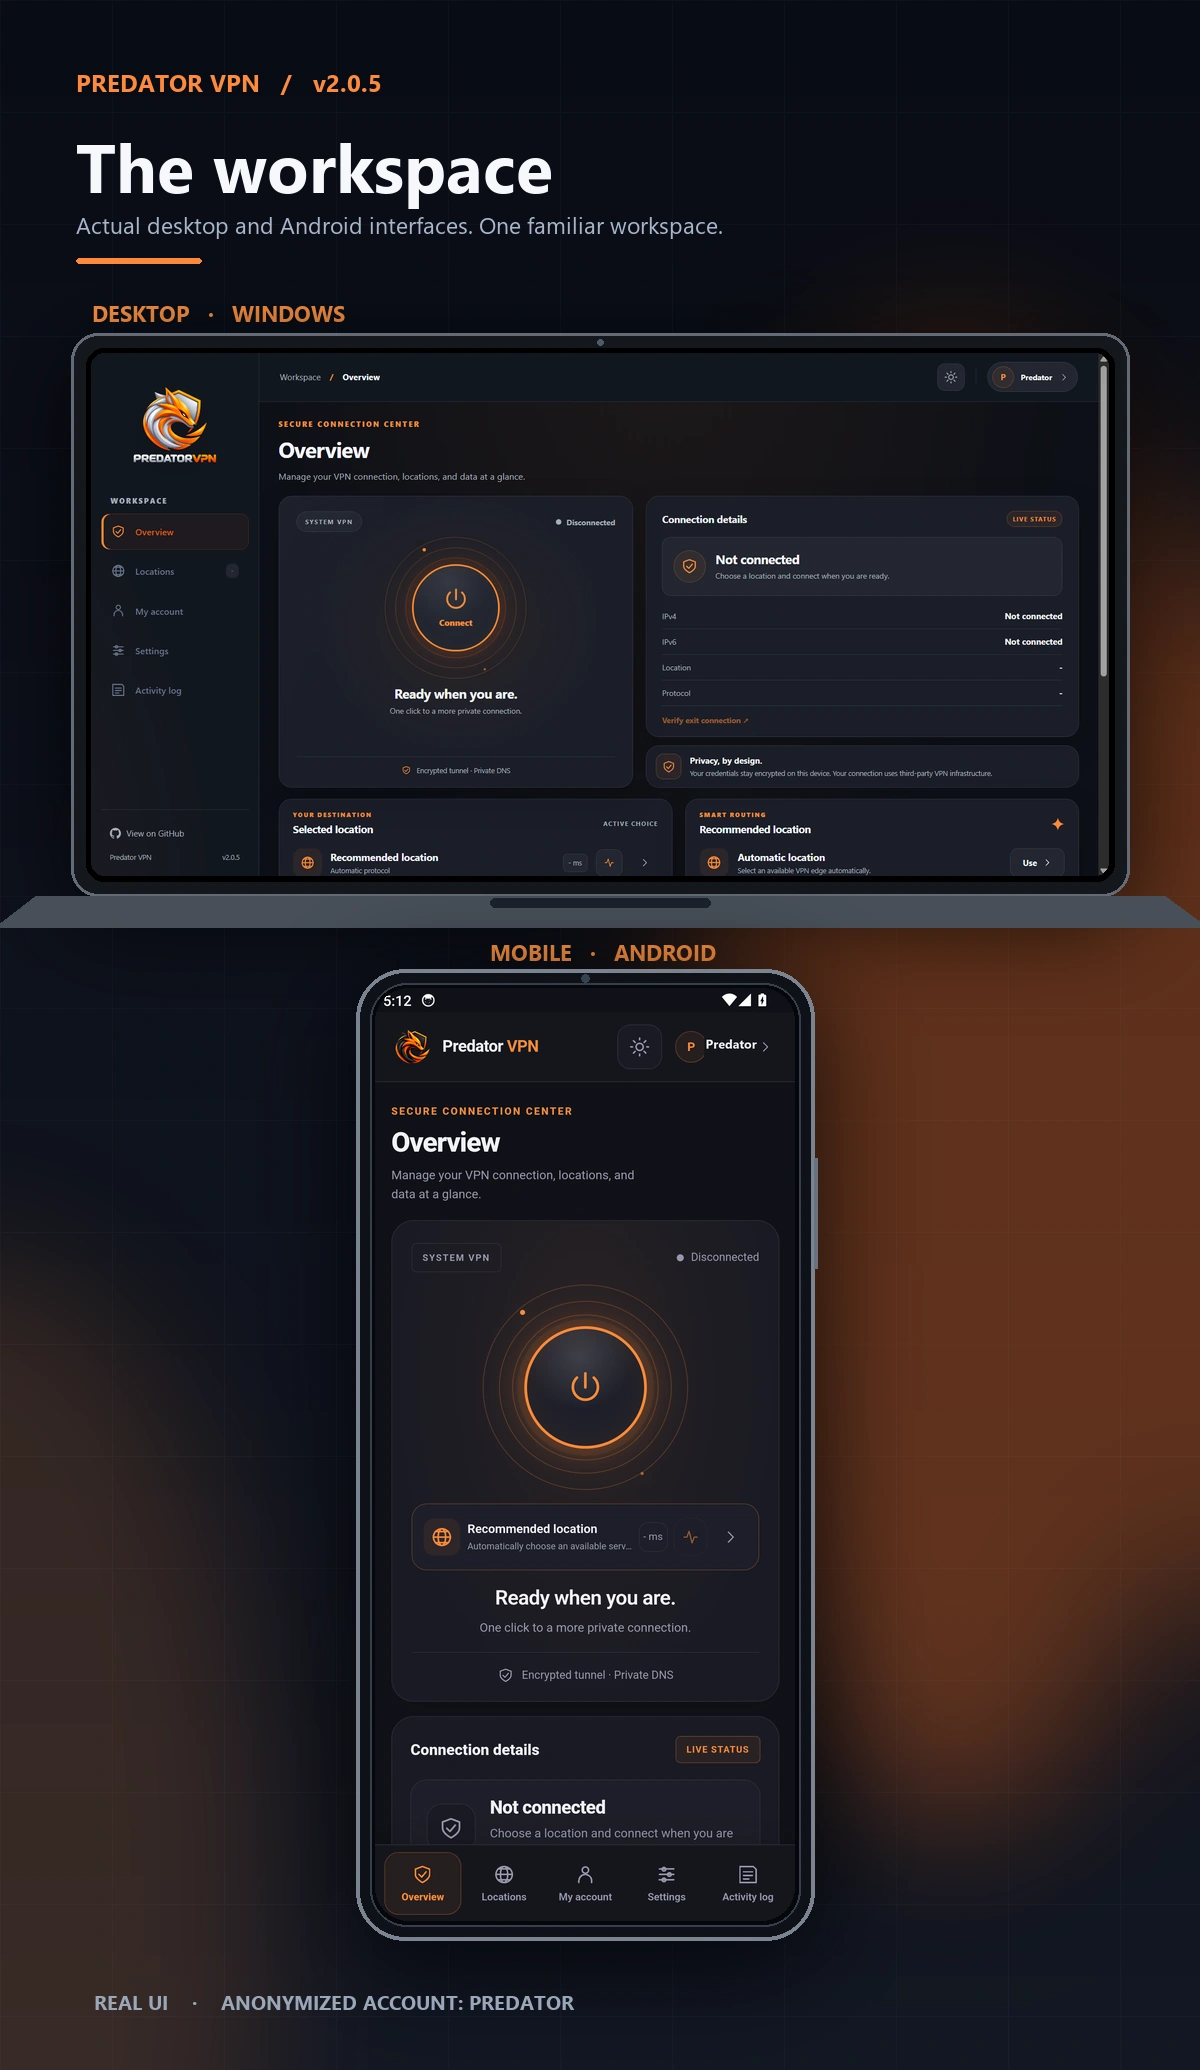
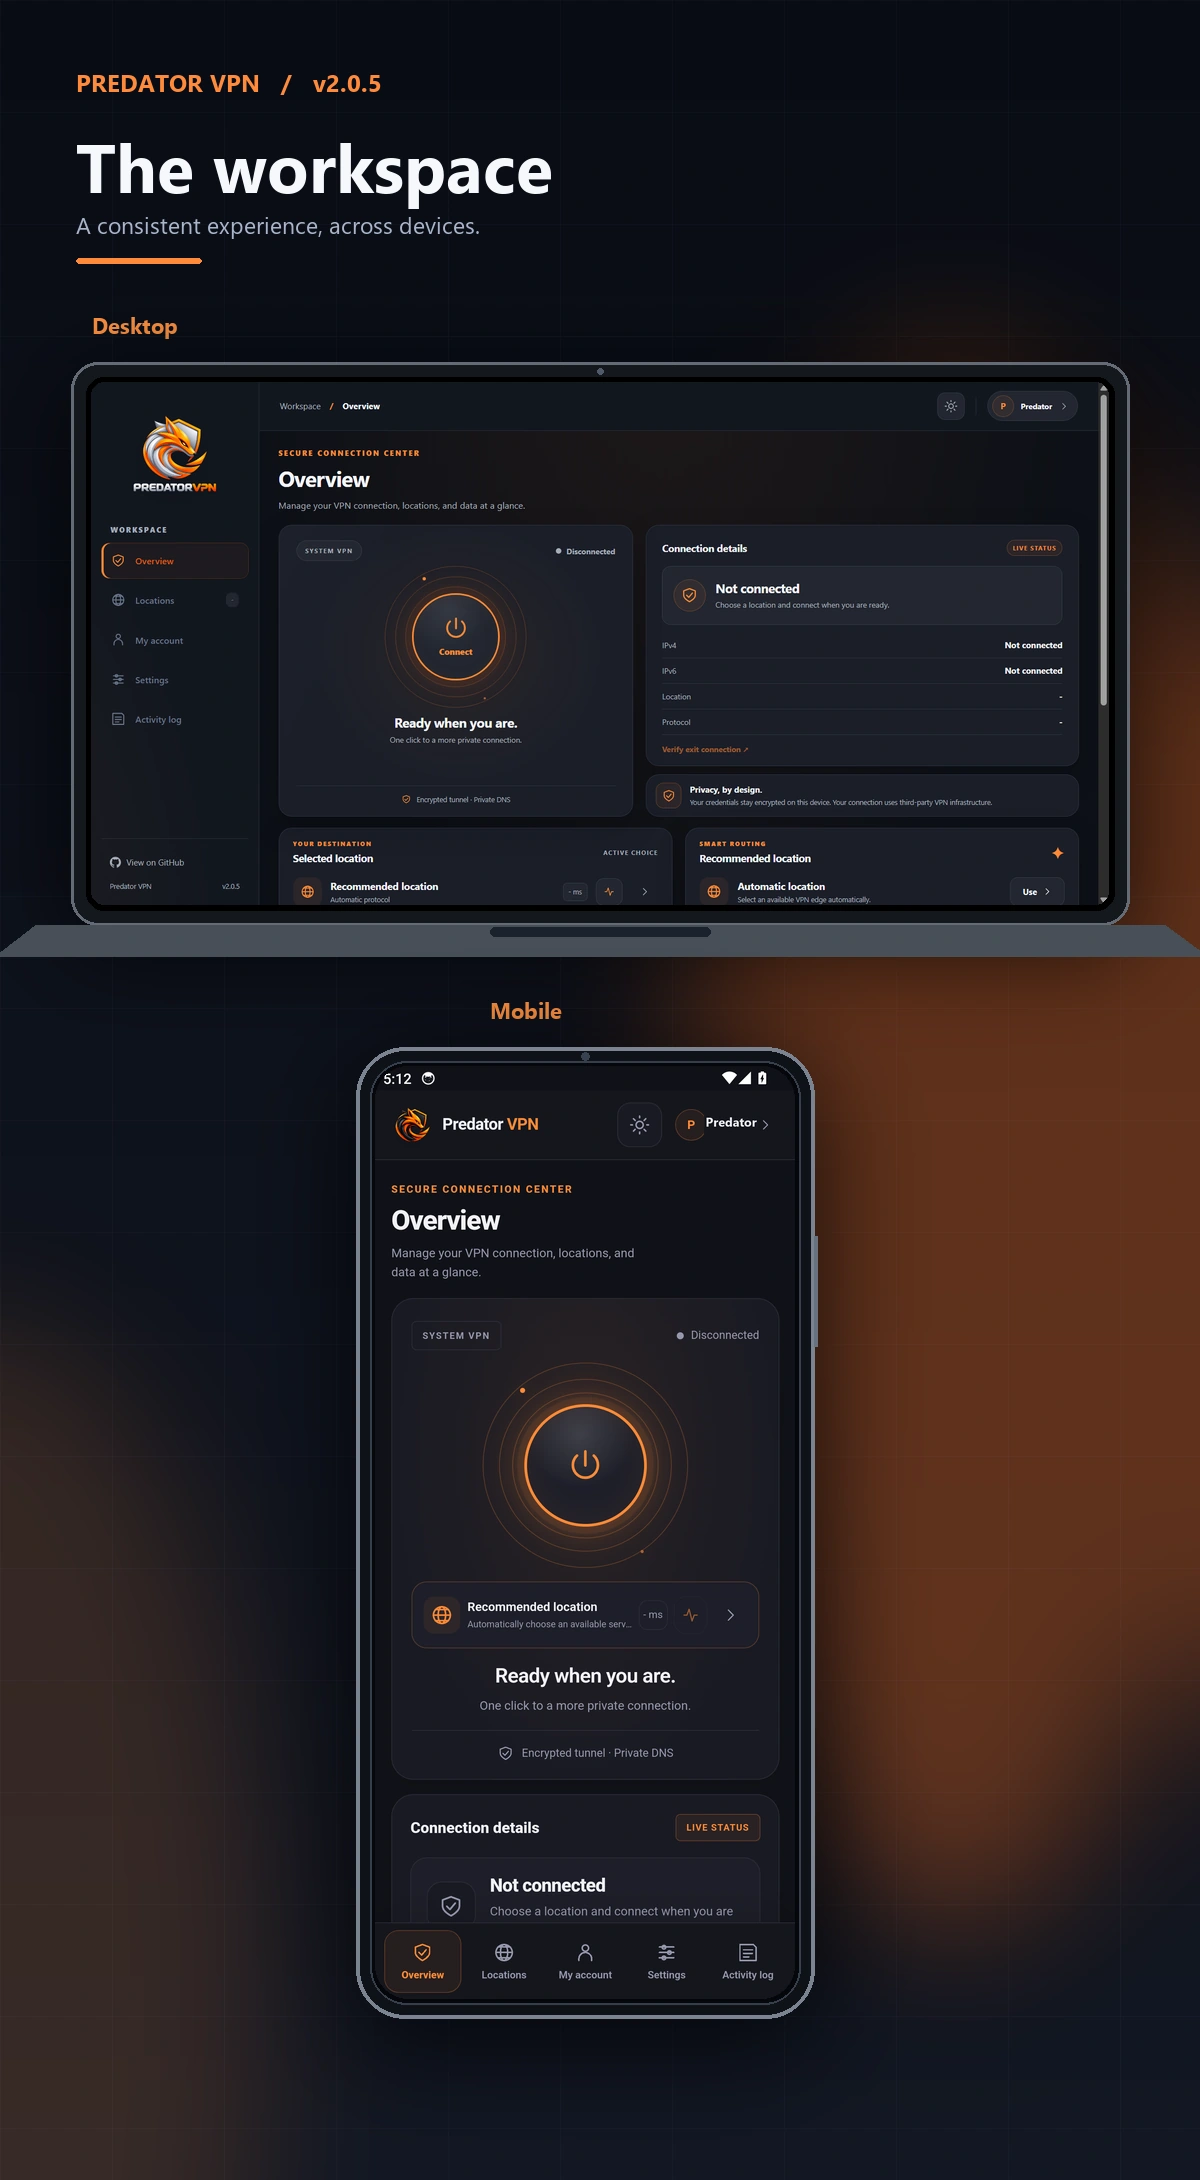
docs(readme): refine device labels and remove showcase captions

diff --git a/scripts/build-readme-workspace.py b/scripts/build-readme-workspace.py
@@ -134,7 +134,7 @@ def text_header(canvas,dark,compact):
     d.text((left,119 if compact else 137),'The workspace',
            font=font(68 if compact else 77,True),fill=main)
     d.text((left,209 if compact else 240),
-           'Actual desktop and Android interfaces. One familiar workspace.',
+           'A consistent experience, across devices.',
            font=font(23 if compact else 29),fill=secondary)
     d.rounded_rectangle((left,258 if compact else 302,left+125,263 if compact else 308),
                         radius=2,fill=accent)
@@ -146,26 +146,23 @@ def badge(canvas,x,y,caption,dark):
 
 def render(theme,compact=False):
     dark=theme=='dark'
-    w,h=(1200,2070) if compact else (2560,1440)
+    w,h=(1200,2180) if compact else (2560,1440)
     canvas=gradient_bg(w,h,dark)
     soft_lights(canvas,dark)
     text_header(canvas,dark,compact)
     desk=screens[theme]['desktop']
     mob=screens[theme]['android']
     if compact:
-        badge(canvas,92,298,'DESKTOP   ·   WINDOWS',dark)
-        laptop(canvas,desk,91,353,1018)
-        badge(canvas,490,937,'MOBILE   ·   ANDROID',dark)
-        phone(canvas,mob,375,988,420)
-        d=ImageDraw.Draw(canvas)
-        d.text((94,1988),'REAL UI    ·    ANONYMIZED ACCOUNT: PREDATOR',
-               font=font(20,True),fill=(155,167,186) if dark else (97,110,128))
+        badge(canvas,92,310,'Desktop',dark)
+        laptop(canvas,desk,91,382,1018)
+        badge(canvas,490,995,'Mobile',dark)
+        phone(canvas,mob,375,1066,420)
         suffix='-mobile'
     else:
-        badge(canvas,149,320,'DESKTOP   ·   WINDOWS',dark)
-        laptop(canvas,desk,146,363,1638)
-        badge(canvas,1890,251,'MOBILE   ·   ANDROID',dark)
-        phone(canvas,mob,1890,301,459)
+        badge(canvas,149,321,'Desktop',dark)
+        laptop(canvas,desk,146,396,1638)
+        badge(canvas,1890,260,'Mobile',dark)
+        phone(canvas,mob,1890,342,459)
         suffix=''
     out=OUT/f'workspace-v205-{theme}{suffix}.webp'
     canvas.convert('RGB').save(out,'WEBP',quality=94,method=6)

diff --git a/README.fa.md b/README.fa.md
@@ -107,9 +107,6 @@
     <img src="docs/readme/workspace-v205-light.webp" width="1440" alt="رابط واقعی Predator VPN نسخهٔ 2.0.5 در قاب لپتاپ و گوشی اندرویدی، با نام نمایشی ناشناسسازیشدهٔ Predator.">
   </picture>
 </p>
-<p align="center"><sub>تصاویر واقعی رابط نسخهٔ 2.0.5 در ویندوز و اندروید؛ نام نمایشی حساب برای حفظ حریم خصوصی به <strong>Predator</strong> تغییر داده شده و هیچ اطلاعات شخصی نمایش داده نمیشود.</sub></p>
-<p align="center"><a href="docs/screenshots/desktop-v205-overview-dark.png">مشاهدهٔ تصویر اصلی نسخهٔ دسکتاپ</a> &nbsp; · &nbsp; <a href="docs/screenshots/android-v205-overview-dark.png">مشاهدهٔ تصویر اندروید</a></p>
-
 <a name="traffic-on-your-terms"></a>
 
 ## 🔀 ترافیک، به انتخاب شما

diff --git a/README.md b/README.md
@@ -106,9 +106,6 @@ A clear connection dashboard, multi-account management, allowances and network d
     <img src="docs/readme/workspace-v205-light.webp" width="1440" alt="Real Predator VPN 2.0.5 desktop application shown inside a laptop and Android app shown inside a phone, with the display name anonymized to Predator.">
   </picture>
 </p>
-<p align="center"><sub>Actual v2.0.5 application interfaces. The account display name is anonymized to <strong>Predator</strong>; no personal account information is shown.</sub></p>
-<p align="center"><a href="docs/screenshots/desktop-v205-overview-dark.png">View original desktop screenshot</a> &nbsp; · &nbsp; <a href="docs/screenshots/android-v205-overview-dark.png">View Android screenshot</a></p>
-
 <a name="traffic-on-your-terms"></a>
 
 ## 🔀 Traffic on your terms
